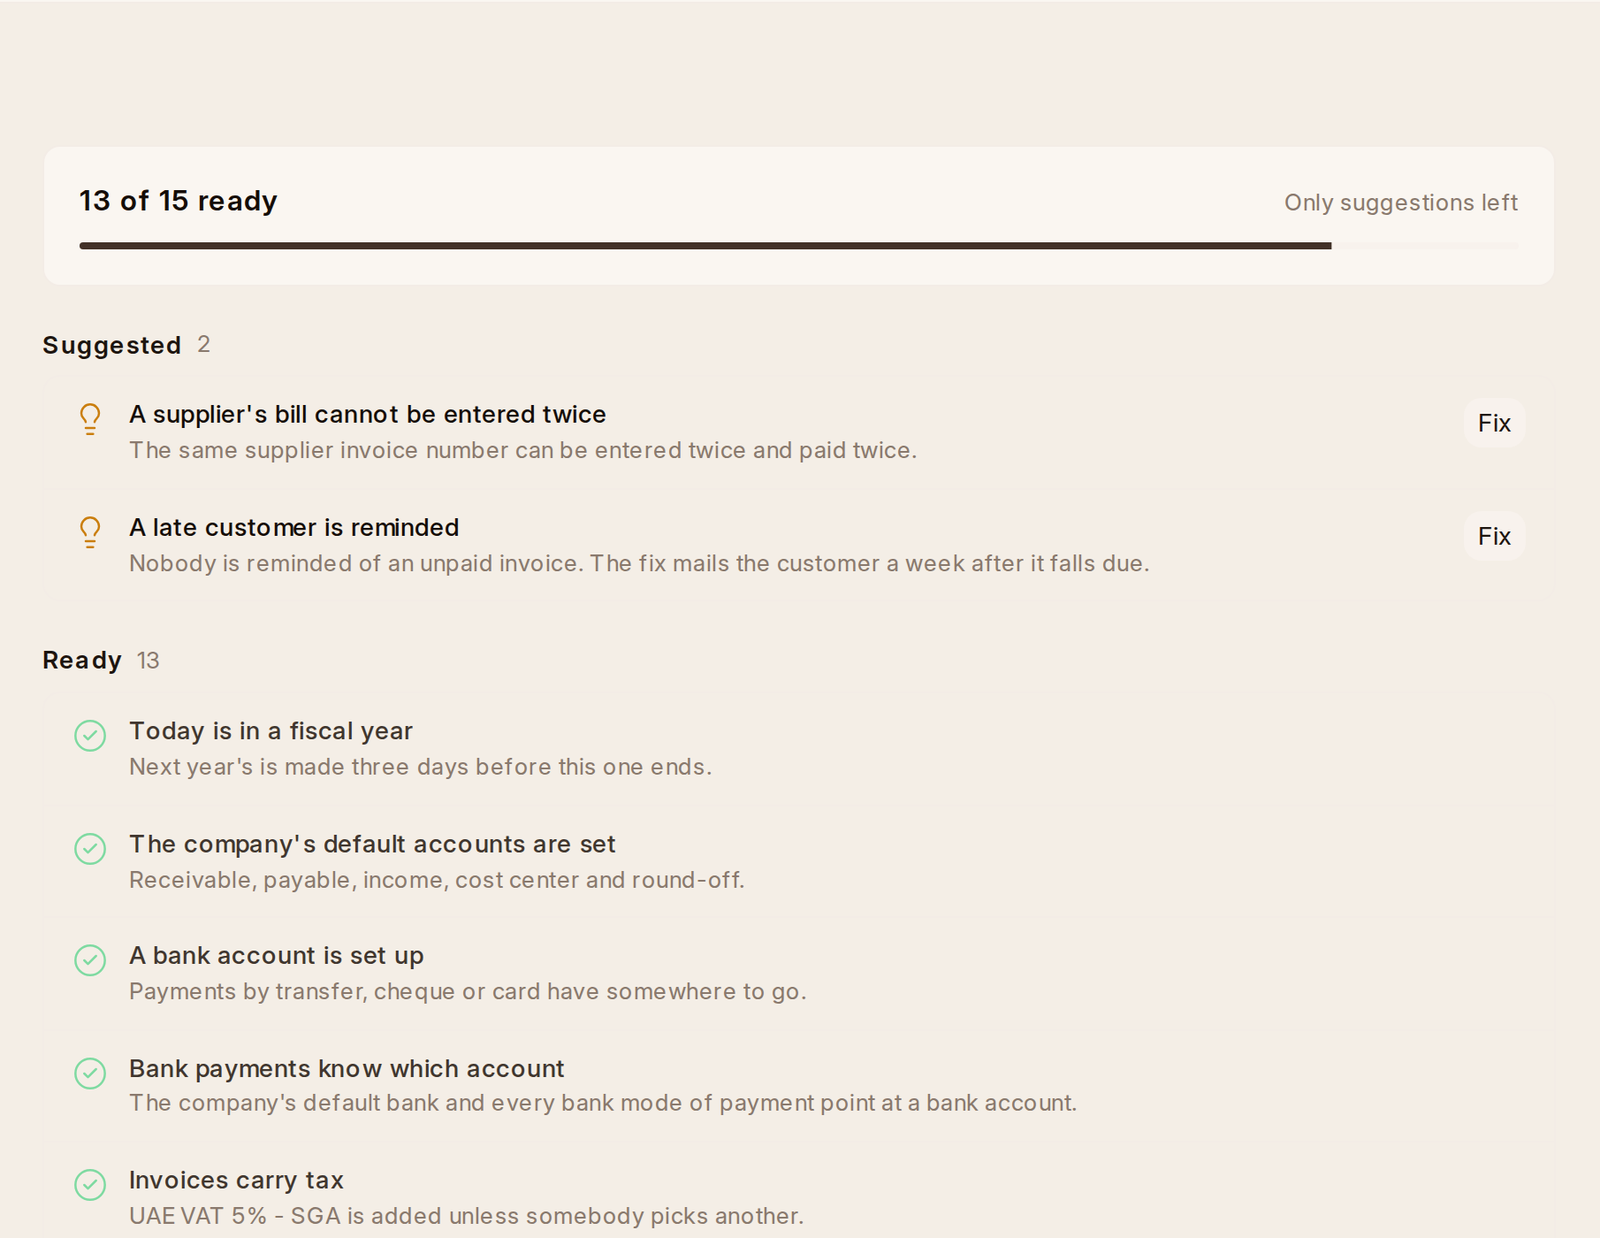
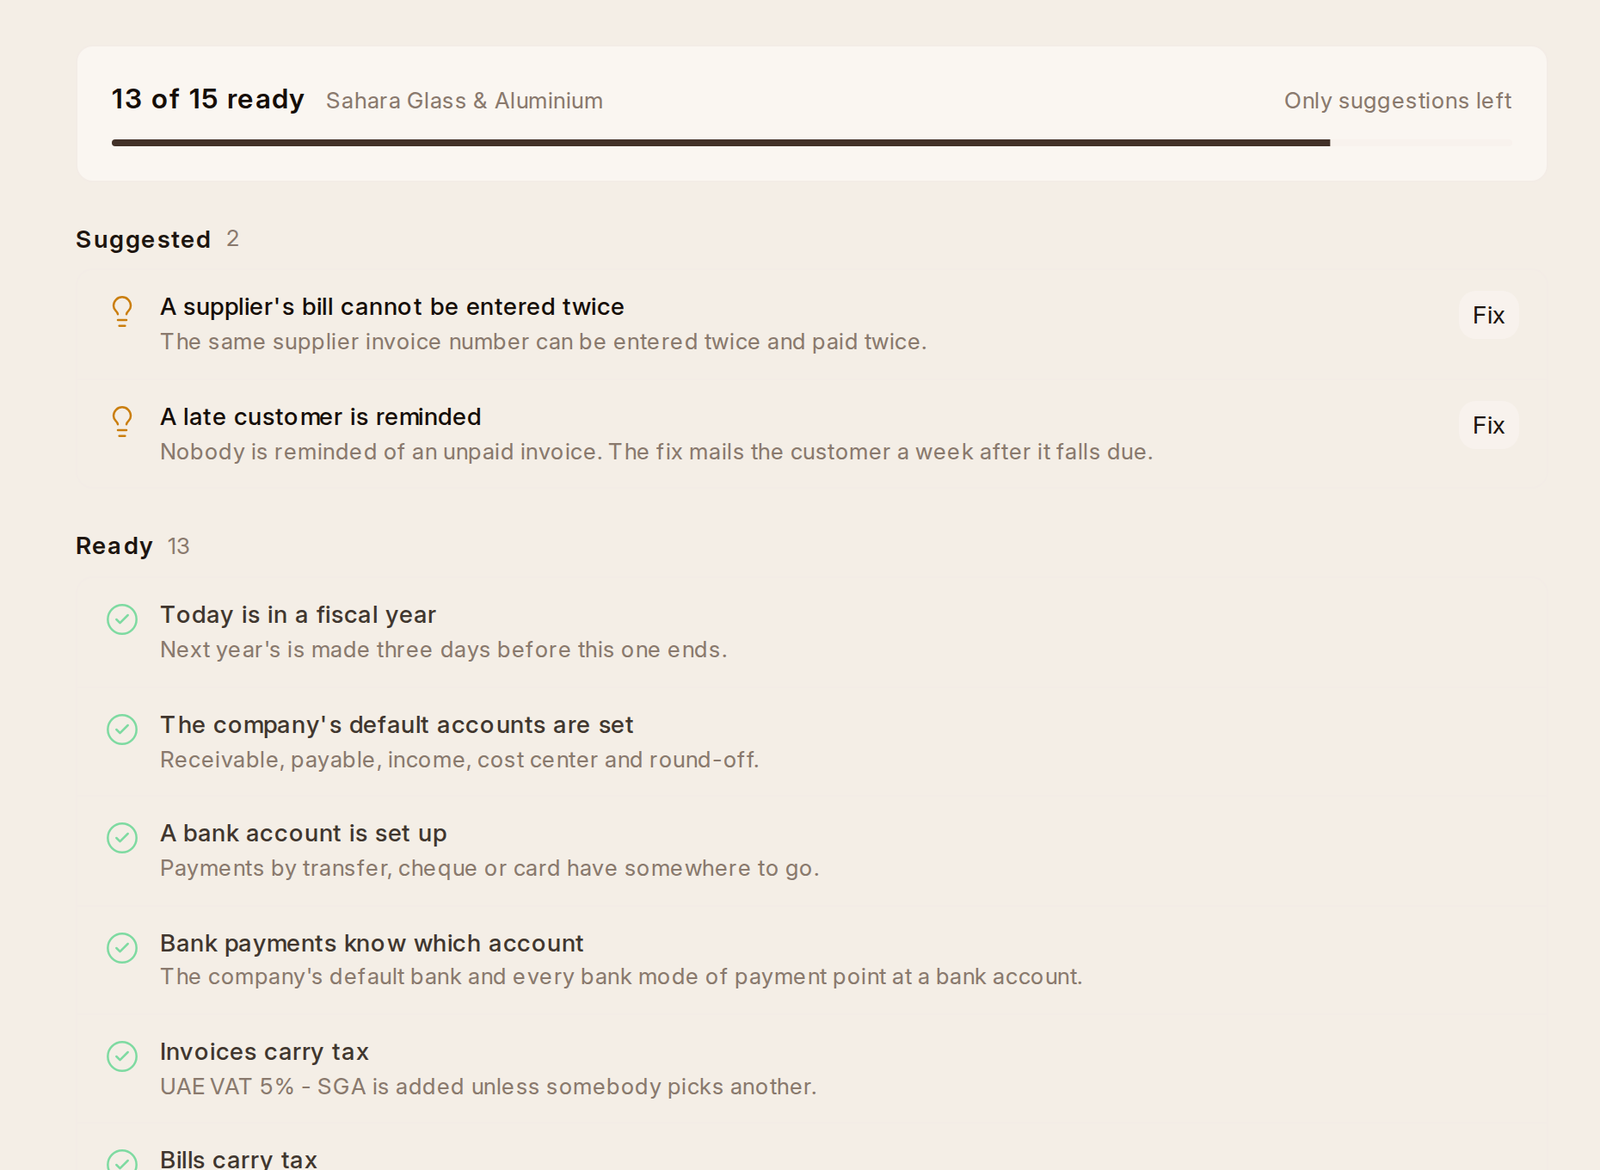
OneBook's pass closed: states, live, reach, speed, setup, OneCalendar
Who: Huda keeps the books; Karim and Omar hold Accounts User in the demo;
Tariq (employee) is the one who may not.

Keys, by real presses on the books Home: I, B, P and J open New Sales
Invoice, Purchase Invoice, Payment Entry and Journal Entry; Escape closes
each; Tab lands on a control with its ring. As Tariq, /desk/books, Journal
Entry and a new invoice say No access, and the keys do nothing.

States: a cancelled invoice (made for this, ACC-SINV-2026-00033), a credit
note, a debit note, invoices in USD and SAR, a SAR payment, at 1440 and
390. The cancelled sentence read "Cancelled; it counts for nothing." in
one/stages.py, the line every record's head uses: now "This document is
cancelled.", in Arabic and German too.

Live: Home refetched a second after an invoice was saved from the server.

Empty dates: every < on a due date is on submitted invoices, which ERPNext
will not submit without one; none is empty on the site.

Reach: reach.check lists nothing of OneBook's. Search finds Riyadh's
invoice and payment for Huda; Tariq is refused invoices and bank accounts.

Speed, a phone at 4x CPU: Home 4.2s, the invoice list 8.0s, an invoice
11.1s (ERPNext's own calls), a payment 6.5s; in the scratchpad.

Setup: the Books Check and Inventory Check check the reader's company;
with two or more they now name it beside the count (kit company()).

OneCalendar: Invoices Due and Bills Due, the reader's company's still owed,
[…]

diff --git a/frontend/src/check/CheckList.vue b/frontend/src/check/CheckList.vue
@@ -1,9 +1,10 @@
 <template>
   <div class="mx-auto w-full max-w-4xl px-5 pb-16 pt-6 text-ink-gray-8">
     <div class="rounded-4 border border-outline-gray-1 bg-surface-elevation-2 p-5">
-      <div class="flex flex-wrap items-baseline justify-between gap-2">
+      <div class="flex flex-wrap items-baseline gap-x-3 gap-y-1">
         <h2 class="text-lg font-semibold text-ink-gray-9">{{ left ? __("{0} of {1} ready", [count(ready.length), count(rows.length)]) : __("Everything is set up") }}</h2>
-        <span v-if="left" class="text-sm text-ink-gray-5">{{ todo.length ? __("{0} to do", [count(todo.length)]) : __("Only suggestions left") }}</span>
+        <span v-if="shown" class="text-sm text-ink-gray-5">{{ shown }}</span>
+        <span v-if="left" class="ms-auto text-sm text-ink-gray-5">{{ todo.length ? __("{0} to do", [count(todo.length)]) : __("Only suggestions left") }}</span>
       </div>
       <Progress :value="rows.length ? Math.round((100 * ready.length) / rows.length) : 0" size="md" class="mt-3" />
     </div>
@@ -31,10 +32,11 @@
 import { computed } from "vue";
 import { Button, Progress } from "frappe-ui";
 
-import { __, count } from "../kit";
+import { __, company, count } from "../kit";
 
 const props = defineProps({ rows: { type: Array, default: () => [] }, onFix: Function });
 
+const shown = company();
 const todo = computed(() => props.rows.filter((one) => one.state === "To Do"));
 const suggested = computed(() => props.rows.filter((one) => one.state === "Suggested"));
 const ready = computed(() => props.rows.filter((one) => one.state === "Ready"));

diff --git a/frontend/src/kit/desk.js b/frontend/src/kit/desk.js
@@ -47,6 +47,7 @@ export const userSettings = {
 export const can = (action, doctype) => Boolean(frappe().model[`can_${action}`]?.(doctype));
 
 export const canReport = (name) => Boolean(frappe().boot.allowed_reports?.[name]);
+export const company = () => frappe().boot.one_companies?.current || "";
 
 export function follow(doctype, name, changed) {
 	const realtime = frappe().realtime;

diff --git a/onedesk/one_book/calendar.py b/onedesk/one_book/calendar.py
@@ -1,0 +1,61 @@
+"""OneBook on the calendar: the reader's company's invoices and bills still
+owed, on the day each falls due, each opening its invoice."""
+
+import frappe
+from frappe import _lt
+
+from onedesk.one_calendar import layers
+
+LAYERS = [
+	{
+		"key": "invoices-due",
+		"label": _lt("Invoices Due"),
+		"color": "green",
+		"group": "Workspace",
+		"on": False,
+		"doctype": "Sales Invoice",
+		"rows": "onedesk.one_book.calendar.invoices",
+	},
+	{
+		"key": "bills-due",
+		"label": _lt("Bills Due"),
+		"color": "red",
+		"group": "Workspace",
+		"on": False,
+		"doctype": "Purchase Invoice",
+		"rows": "onedesk.one_book.calendar.bills",
+	},
+]
+
+def invoices(start, end) -> list[dict]:
+	return _owed("Sales Invoice", "customer", start, end, [])
+
+
+def bills(start, end) -> list[dict]:
+	return _owed("Purchase Invoice", "supplier", start, end, [])
+
+
+def _owed(doctype: str, party: str, start, end, which: list) -> list[dict]:
+	"""Submitted and not yet paid, the reader's company's, by due date."""
+	from erpnext import get_default_company
+
+	return [
+		{
+			"name": one.name,
+			"title": f"{one.party_name} · {frappe.format(one.outstanding_amount, {'fieldtype': 'Currency', 'options': one.party_account_currency})}",
+			"start": one.due_date,
+			"all_day": 1,
+		}
+		for one in frappe.get_list(
+			doctype,
+			filters=[
+				*which,
+				["docstatus", "=", 1],
+				["outstanding_amount", ">", 0],
+				["company", "=", get_default_company()],
+				*layers.within("due_date", start, end),
+			],
+			fields=["name", f"{party}_name as party_name", "outstanding_amount", "party_account_currency", "due_date"],
+			limit=layers.MOST,
+		)
+	]

diff --git a/onedesk/one_interface/stamps.py b/onedesk/one_interface/stamps.py
@@ -8,6 +8,21 @@ the commit that finishes its pass and taken out by a change that undoes it.
 import re
 
 PASSED: dict[str, dict] = {
+	"Form/Sales Invoice": {"on": "2026-11-06", "pass": "OneBook, closing"},
+	"List/Sales Invoice": {"on": "2026-11-06", "pass": "OneBook, closing"},
+	"Form/Purchase Invoice": {"on": "2026-11-06", "pass": "OneBook, closing"},
+	"List/Purchase Invoice": {"on": "2026-11-06", "pass": "OneBook, closing"},
+	"Form/Payment Entry": {"on": "2026-11-06", "pass": "OneBook, closing"},
+	"List/Payment Entry": {"on": "2026-11-06", "pass": "OneBook, closing"},
+	"Form/Journal Entry": {"on": "2026-11-06", "pass": "OneBook, closing"},
+	"List/Journal Entry": {"on": "2026-11-06", "pass": "OneBook, closing"},
+	"Form/Bank Transaction": {"on": "2026-11-06", "pass": "OneBook, closing"},
+	"List/Bank Transaction": {"on": "2026-11-06", "pass": "OneBook, closing"},
+	"Form/Bank Account": {"on": "2026-11-06", "pass": "OneBook, closing"},
+	"List/Bank Account": {"on": "2026-11-06", "pass": "OneBook, closing"},
+	"Form/Supplier": {"on": "2026-11-06", "pass": "OneBook, closing"},
+	"List/Supplier": {"on": "2026-11-06", "pass": "OneBook, closing"},
+	"books": {"on": "2026-11-06", "pass": "OneBook, closing"},
 	"Form/Maintenance Schedule": {"on": "2026-11-06", "pass": "OneCRM, closing"},
 	"List/Maintenance Schedule": {"on": "2026-11-06", "pass": "OneCRM, closing"},
 	"Form/Warranty Claim": {"on": "2026-11-06", "pass": "OneCRM, closing"},

diff --git a/onedesk/hooks.py b/onedesk/hooks.py
@@ -1264,7 +1264,7 @@ one_makes_records = {
 	"Project Template": ["one_project"],
 	"Project Type": ["one_hr"],
 	"Project Update": ["one_project"],
-	"Purchase Invoice": ["one_account"],
+	"Purchase Invoice": ["one_account", "one_book"],
 	"Purchase Order": ["one_inventory"],
 	"Purchase Receipt": ["one_inventory"],
 	"Quality Action": ["one_quality"],
@@ -1275,7 +1275,7 @@ one_makes_records = {
 	"Quotation": ["one_crm"],
 	"Request for Quotation": ["one_inventory"],
 	"Salary Slip": ["one_hr"],
-	"Sales Invoice": ["one_admin", "one_project"],
+	"Sales Invoice": ["one_admin", "one_book", "one_project"],
 	"Sales Order": ["one_crm", "one_inventory", "one_project"],
 	"Sales Stage": ["one_admin", "one_crm"],
 	"Shift Request": ["one_hr"],
@@ -1601,6 +1601,7 @@ one_calendar_layers = [
 	"onedesk.one_crm.calendar.LAYERS",
 	"onedesk.one_hr.calendar.LAYERS",
 	"onedesk.one_inventory.calendar.LAYERS",
+	"onedesk.one_book.calendar.LAYERS",
 	"onedesk.one_ai.reading.calendar.LAYERS",
 ]
 

diff --git a/tests/test_calendar.py b/tests/test_calendar.py
@@ -198,7 +198,7 @@ def test_every_layer_is_declared_whole_and_registered():
 	registered = re.findall(
 		r'"(onedesk\.[\w.]+\.LAYERS)"', HOOKS.split("one_calendar_layers = [", 1)[1].split("]", 1)[0]
 	)
-	assert len(registered) == 7
+	assert len(registered) == 8
 	keys = []
 	for path in registered:
 		module = tree.APP.joinpath(*path.split(".")[1:-1]).with_suffix(".py")

diff --git a/onedesk/one/stages.py b/onedesk/one/stages.py
@@ -48,5 +48,5 @@ def draft(doc, what: str) -> dict | None:
 	if doc.docstatus == 0:
 		return {"text": what, "colour": "blue"}
 	if doc.docstatus == 2:
-		return {"text": _("Cancelled; it counts for nothing."), "colour": "gray"}
+		return {"text": _("This document is cancelled."), "colour": "gray"}
 	return None

diff --git a/docs/PASSOVER-LOG.md b/docs/PASSOVER-LOG.md
@@ -39,6 +39,7 @@ commit message; the log of every walk up to 18 October 2026 is
 | OneInventory: the pass of November 2026 (islands to frappe, OneFactory, then the areas) | done: islands to frappe, OneFactory and OneQuality split out, demo checks, and stock, buying, quality, assets and shipping walked and stamped; closed 6 November: security, ERPNext, portal, Intake, deleting, several companies (the first module, one/company.py's switch), mails, Help pictures, tours, OneAI's seven cases, a tablet, German, a role that may not, states, live, reach and speed; the demo's second company, Sahara Glass Saudi; then empty dates, keys, setup, sharing and OneCalendar's Goods Expected and Deliveries Due; left: a fresh site, the form's speed on a phone (one_inventory/SCRATCHPAD.md) | 2026-11-06 |
 | Project and Project Template: islands to frappe | a project and a template open on their forms, with heads and parts in their tabs; tiers.PAGES is empty; what is left is in one_project/SCRATCHPAD.md | 2026-11-06 |
 | OneCRM: the pass of November 2026 (pipeline, quoting, support, Home) | leads, deals, quotations, orders and contracts say where they stand at the top; lists trimmed; closed the same day: several companies (Riyadh's pipeline, lists and the Pipeline on the reader's company), winning by the order, security, the portal's decline, Intake, deleting, shortcuts, OneAI, mails, Help with pictures, a tablet, German, states, speed; left: a fresh site (one_crm/SCRATCHPAD.md) | 2026-11-06 |
+| OneBook: the pass of November 2026 (invoices, bills, payments, journals, the bank, Home) | closed 6 November: six record types dressed, several companies (34 record types, Home and the Monday mail by company, Riyadh's books in the demo), security (13 methods), ERPNext's currencies and companies, the portal's voucher, VAT reclaim's audit, Intake's bill company, shortcuts, tours, Help pictures, OneAI's five cases, a tablet, German, a role that may not, states, live, reach, speed, setup and OneCalendar's Invoices Due and Bills Due; left: a fresh site (one_book/SCRATCHPAD.md) | 2026-11-06 |
 
 ## Up next
 

diff --git a/onedesk/one_book/SCRATCHPAD.md b/onedesk/one_book/SCRATCHPAD.md
@@ -1,3 +1,18 @@
 # OneBook scratchpad
 
 What is known to be wrong and what is planned, kept short.
+
+## The pass of 6 November 2026
+
+Closed: every point of the passthrough but a fresh site, which waits for the
+temporary site after the last module.
+
+- Speed on a phone at 4x CPU (huda): Home 4.2s, 15 requests, 1.4 MB; the
+  sales invoice list 8.0s, 9, 909 KB; a sales invoice 11.1s, 13, 17 KB;
+  a payment 6.5s; a bill 8.2s; a bank account 4.9s. The invoice's time is
+  ERPNext's own calls (dimensions, rounding, the doctype twice).
+- Home's Profit This Month is negative in the demo, which is true to its
+  books.
+- Customer and Supplier have no calendar of their own; their invoices due
+  would be a layer once they do.
+- Intake for books: what is left is in one_ai/SCRATCHPAD.md.

diff --git a/onedesk/one_book/docs/changelog/1.2.0.md b/onedesk/one_book/docs/changelog/1.2.0.md
@@ -3,7 +3,7 @@ date: 2026-11-06
 kind: minor
 title: Works with several companies
 docs: home, invoices, payments, journal-entries, the-bank, getting-ready, asking-oneai, tax, overview
-fingerprint: 3ade9828da14
+fingerprint: be5bf5daec50
 legal: ai b9976dbe
 ---
 
@@ -36,3 +36,5 @@ legal: ai b9976dbe
   their own, and Help has pictures of each screen.
 - Home's figures keep their whole titles on a narrow screen.
 - A payment received against an invoice says nothing needs doing.
+- With more than one company, **Books Check** names the company it checks.
+- In OneCalendar, **Invoices Due** and **Bills Due** put what is still owed on the day it falls due.

diff --git a/onedesk/one_inventory/docs/changelog/2.1.0.md b/onedesk/one_inventory/docs/changelog/2.1.0.md
@@ -3,7 +3,7 @@ date: 2026-11-06
 kind: minor
 title: Works with several companies
 docs: overview, stock, buying, items, an-items-page, receiving-and-delivering, equipment, getting-ready, batches-and-quality, asking-oneai, who-can-do-what
-fingerprint: ba9140d2a577
+fingerprint: 3e3b1604fc53
 legal: privacy 0d9597bc, ai 8d9c763e
 ---
 
@@ -43,3 +43,4 @@ legal: privacy 0d9597bc, ai 8d9c763e
 - In OneCalendar, **Goods Expected** and **Deliveries Due** put purchase
   orders and sales orders on the day they are wanted.
 - A service with no due date is no longer shown as due.
+- With more than one company, **Inventory Check** names the company it checks.

diff --git a/onedesk/one_book/docs/invoices.md b/onedesk/one_book/docs/invoices.md
@@ -68,6 +68,13 @@ Request** sends a link to pay online. **Process Statement Of Accounts**
 mails each customer their statement on a schedule, monthly or as often as you
 set.
 
+## On the Calendar
+
+In OneCalendar, **Invoices Due** puts each invoice a customer still owes on
+the day it falls due, with what is left to pay, and **Bills Due** each bill
+still to pay, your company's only. Both are off until you turn them on, and
+each opens its invoice.
+
 ## Bills From Mail and Scans
 
 A supplier's bill that arrives by mail, or is scanned in, is read by OneAI
